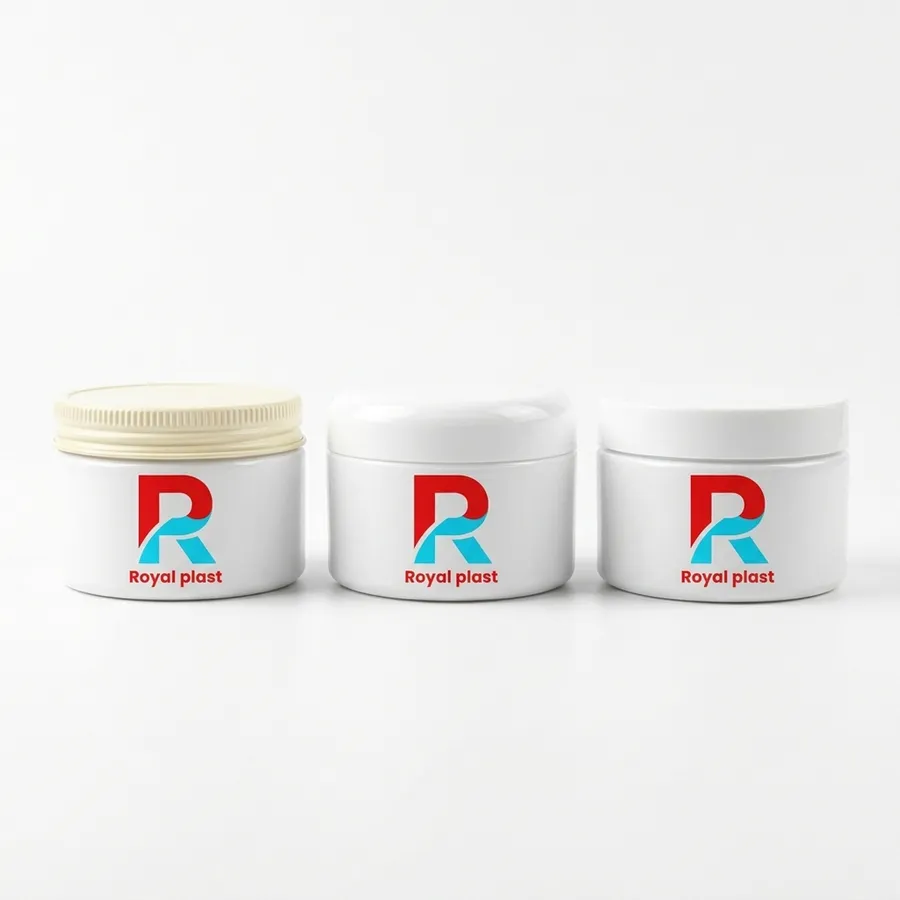
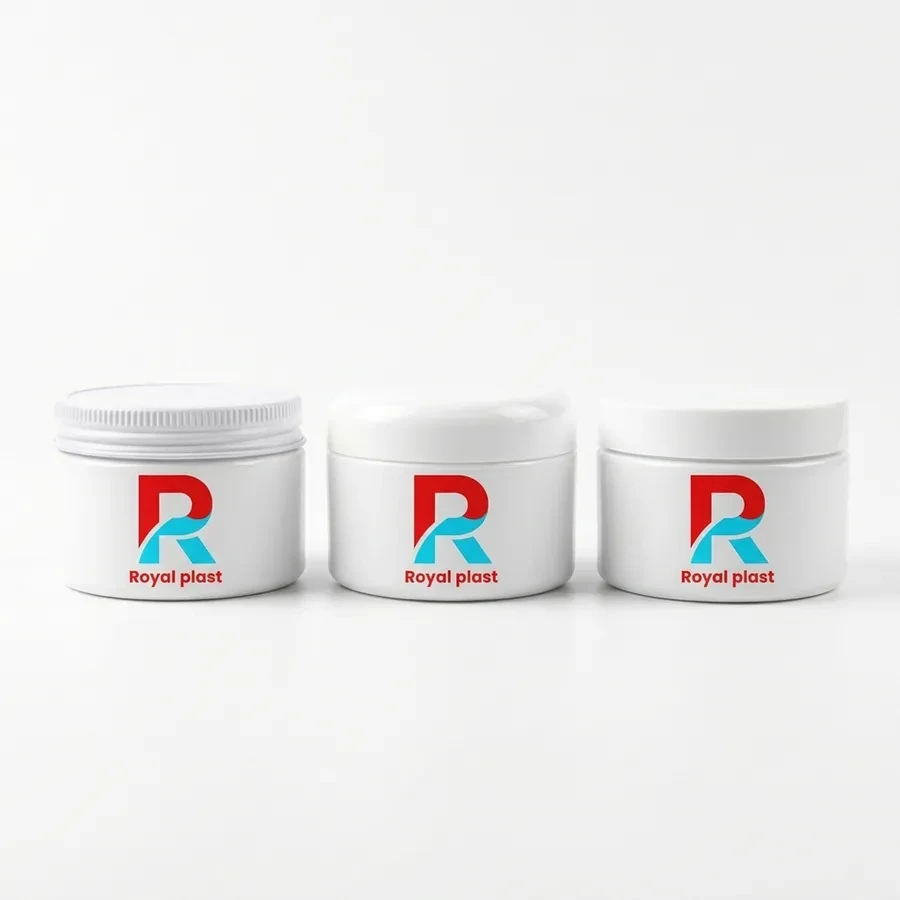
RP-232: white lid on first jar
Claude-Session: https://claude.ai/code/session_01RHpAwk7S9yFShcnyhoKaQD

Changed region(s): [[0.0933, 0.4356, 0.3422, 0.5289]]

diff --git a/app.js b/app.js
@@ -55,7 +55,7 @@ function fullTitle(p){return `${t(p.cat=='jar'?'jar':'bottle')} ${sizesTxt(p)}`.
 function sub(p){if(p.nospec)return t('nospec');const a=[];if(p.necks.length)a.push(p.necks.map(n=>'NK'+n).join(' / '));p.caps.forEach(c=>a.push(capName(c)));p.extra.forEach(e=>a.push(lang=='ar'?e.ar:e.en));return a.join(' · ')}
 const colTxt=p=>p.colors.map(c=>t(c)).join('، ').replace(/،/g,lang=='ar'?'، ':', ');
 const dotsHTML=p=>`<span class="dots">${p.colors.map(c=>`<i class="dot d-${c}" title="${t(c)}"></i>`).join('')}</span>`;
-const IMGV='20261111g';const imgU=n=>`img/${n}.webp?v=${IMGV}`,thU=n=>`t/${n}.webp?v=${IMGV}`;
+const IMGV='20261111h';const imgU=n=>`img/${n}.webp?v=${IMGV}`,thU=n=>`t/${n}.webp?v=${IMGV}`;
 function reveal(root){const io=new IntersectionObserver(es=>es.forEach(e=>{if(e.isIntersecting){e.target.classList.add('in');io.unobserve(e.target)}}),{threshold:.12,rootMargin:'0px 0px -40px 0px'});
  (root||document).querySelectorAll('.rv:not(.in)').forEach(el=>io.observe(el))}
 function applyLang(){document.documentElement.lang=lang;document.documentElement.dir=lang=='ar'?'rtl':'ltr';

diff --git a/index.html b/index.html
@@ -11,7 +11,7 @@
 <link rel="icon" href="assets/favicon.png">
 <link rel="preconnect" href="https://fonts.googleapis.com"><link rel="preconnect" href="https://fonts.gstatic.com" crossorigin>
 <link href="https://fonts.googleapis.com/css2?family=Poppins:wght@400;600;700;800;900&display=swap" rel="stylesheet">
-<link rel="stylesheet" href="style.css?v=20261111g">
+<link rel="stylesheet" href="style.css?v=20261111h">
 <script>try{var t=localStorage.getItem('rp_theme');if(t)document.documentElement.dataset.theme=t;}catch(e){}</script>
 </head>
 <body>
@@ -104,5 +104,5 @@
 </div></div>
 
 <script src="https://cdnjs.cloudflare.com/ajax/libs/qrcode-generator/1.4.4/qrcode.min.js"></script>
-<script src="app.js?v=20261111g"></script>
+<script src="app.js?v=20261111h"></script>
 </body></html>
